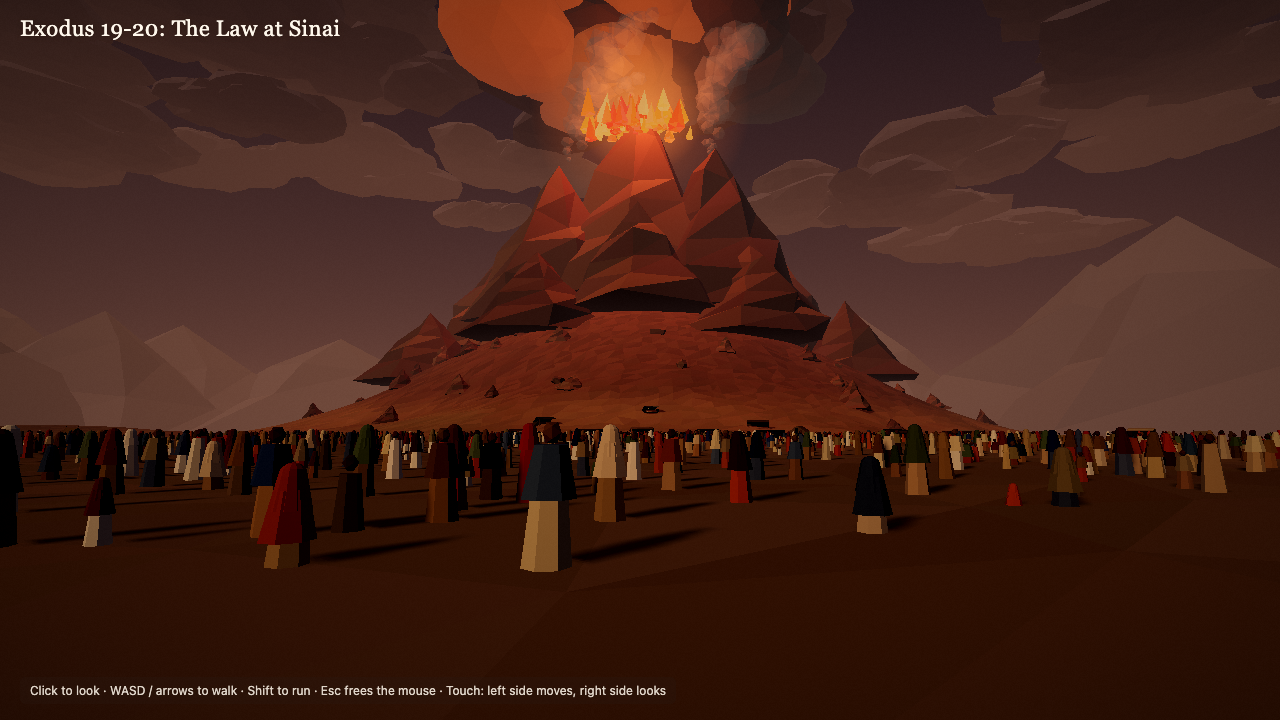
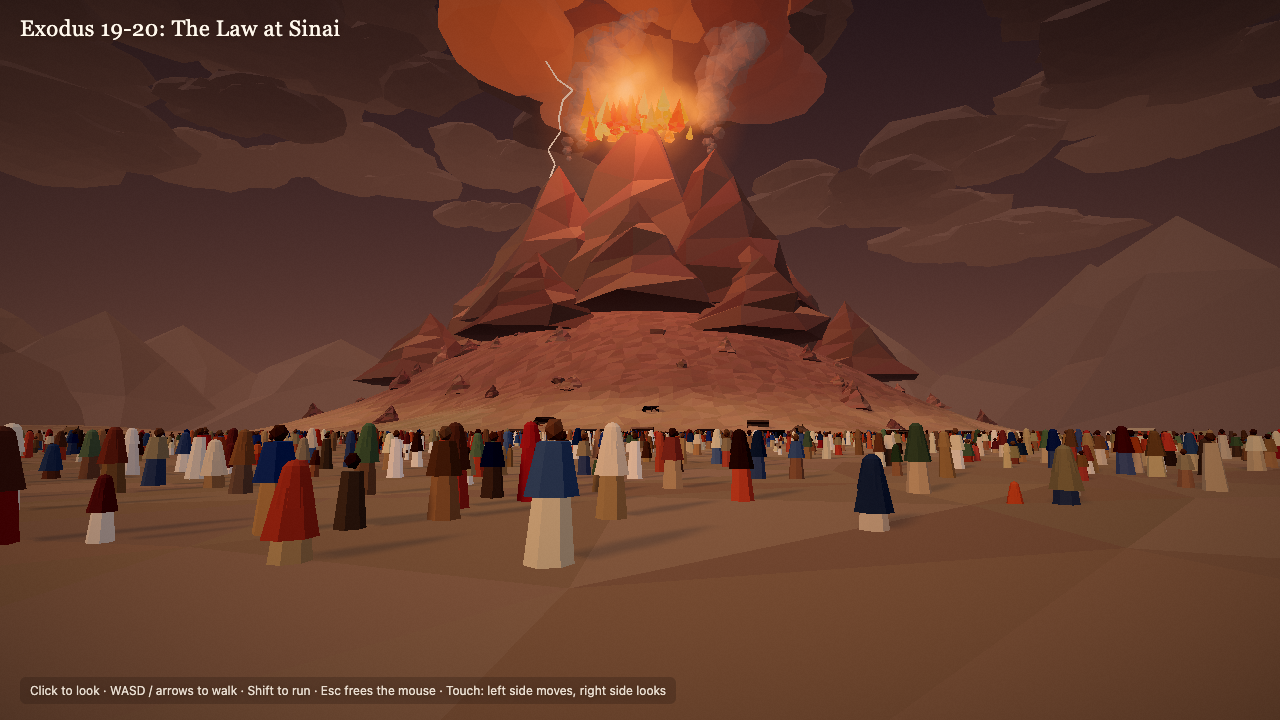
feat: polish lowpoly scenes ot-19 to ot-24

diff --git a/styles/lowpoly/scenes/ot-22.js b/styles/lowpoly/scenes/ot-22.js
@@ -2,7 +2,7 @@
 // that covers the tent of meeting begins to glow as fire, and the tribes watch from their tents.
 import * as THREE from 'three';
 import { rng } from '../engine/util.js';
-import { ISRAEL, desertTerrain, layoutTents, tentZones, tent, campfire, flock, banner, person } from './lib/ot-19-camp.js';
+import { ISRAEL, desertTerrain, layoutTents, tentZones, tent, campfire, flock, banner, person, puffTexture } from './lib/ot-19-camp.js';
 
 const COURT = { x: 0, z: -25, w: 22.5, d: 45 };
 const TENT = { x: 0, z: -36, w: 4.6, d: 13.5, h: 4.6 };
@@ -82,7 +82,7 @@ function tabernacle(ctx) {
   const fireLight = new THREE.PointLight('#ff9a48', 40, 22, 1.5);
   fireLight.position.set(ax, ay + 3, az);
   ctx.scene.add(fireLight);
-  ctx.effects.smoke({ position: [ax, ay + 2, az], count: 12, height: 18, size: 0.6, color: '#a09890', seed: 8 });
+  ctx.effects.smoke({ position: [ax, ay + 2, az], count: 8, height: 9, size: 0.3, color: '#a09890', seed: 8 });
 
   const [lx, lz] = LAVER;
   const ly = ctx.heightAt(lx, lz);
@@ -91,41 +91,50 @@ function tabernacle(ctx) {
   ctx.colliders.add({ x: lx, z: lz, w: 1.4, d: 1.4, bottom: ly, top: ly + 1.3 });
 }
 
-// The cloud over the tent, glowing with fire from within as night falls.
+// The cloud over the tent: a soft, tall column glowing with fire from within as night falls.
 function pillar(ctx) {
   const r = rng(40);
   const { x, z, h } = TENT;
-  const base = ctx.heightAt(x, z) + h + 1;
-  const mat = (k) => new THREE.MeshLambertMaterial({ color: '#8a7a74', emissive: new THREE.Color('#ff7a2a').lerp(new THREE.Color('#c89070'), k), emissiveIntensity: 0.75 - k * 0.45, flatShading: true });
-  const mats = [0, 0.3, 0.6, 1].map(mat);
-  const puffs = [];
-  for (let i = 0; i < 130; i++) {
-    const t = (i / 130) ** 1.3;
-    const y = base + t * 150 + r.range(-3, 3);
-    const rad = 6 + t * 16 + r.range(-1, 2);
-    const a = r() * Math.PI * 2;
-    const m = new THREE.Mesh(new THREE.IcosahedronGeometry(1, 0), mats[Math.min(3, Math.floor(t * 4 + r() * 0.8))]);
-    const s = rad * r.range(0.45, 0.8);
-    m.scale.set(s, s * 0.8, s);
-    m.position.set(x + Math.cos(a) * rad * 0.55, y, z + Math.sin(a) * rad * 0.55);
-    m.userData = { a, rad, y, ph: r() * 6 };
-    ctx.scene.add(m);
-    puffs.push(m);
+  const ground = ctx.heightAt(x, z);
+  const base = ground + h + 0.5;
+  const tex = puffTexture();
+  const smoke = [0, 1, 2, 3].map((k) => new THREE.SpriteMaterial({ map: tex, color: new THREE.Color('#ffb070').lerp(new THREE.Color('#c8a0a0'), k / 3), opacity: 0.55 - k * 0.07, transparent: true, depthWrite: false, fog: false }));
+  const fire = new THREE.SpriteMaterial({ map: tex, color: '#ffb860', opacity: 0.4, transparent: true, depthWrite: false, blending: THREE.AdditiveBlending, fog: false });
+  const sprites = [];
+  const add = (mat, t, width, size) => {
+    const a = r() * Math.PI * 2, d = Math.sqrt(r()) * width;
+    const s = new THREE.Sprite(mat);
+    const y = base + t * 150;
+    s.scale.set(size, size * r.range(1.1, 1.6), 1);
+    s.position.set(x + Math.cos(a) * d, y, z + Math.sin(a) * d);
+    s.userData = { x: s.position.x, z: s.position.z, y, ph: r() * 6 };
+    ctx.scene.add(s);
+    sprites.push(s);
+  };
+  for (let i = 0; i < 110; i++) {
+    const t = (i / 110) ** 1.25;
+    const width = 3 + t * 9;
+    add(smoke[Math.min(3, Math.floor(t * 4))], t, width, r.range(9, 14) + t * 14);
+  }
+  for (let i = 0; i < 40; i++) {
+    const t = (i / 40) ** 1.4 * 0.7;
+    add(fire, t, 1.5 + t * 4, r.range(6, 10) + t * 8);
   }
   ctx.onFrame((t) => {
-    for (const m of puffs) {
-      const { a, rad, y, ph } = m.userData;
-      m.rotation.y = t * 0.05 + ph;
-      m.position.y = y + Math.sin(t * 0.3 + ph) * 1.2;
-      m.position.x = x + Math.cos(a + t * 0.04) * rad * 0.55;
+    for (const s of sprites) {
+      const { x: sx, z: sz, y, ph } = s.userData;
+      s.position.y = y + Math.sin(t * 0.25 + ph) * 1.5;
+      s.position.x = sx + Math.sin(t * 0.08 + ph) * 1.2;
+      s.position.z = sz + Math.cos(t * 0.07 + ph) * 1.2;
     }
-    for (const [i, mm] of mats.entries()) mm.emissiveIntensity = (0.75 - i * 0.15) * (0.9 + 0.1 * Math.sin(t * 2.3 + i));
+    fire.opacity = 0.4 * (0.9 + 0.1 * Math.sin(t * 1.7));
   });
-  ctx.effects.halo({ position: [x, base + 10, z], size: 34, color: '#ffae60', opacity: 0.3 });
+  ctx.effects.beam({ position: [x, base - 1, z], height: 160, radiusBottom: 4, radiusTop: 10, color: '#ffc080', opacity: 0.55 });
+  ctx.effects.halo({ position: [x, base + 6, z], size: 30, color: '#ffae60', opacity: 0.35 });
   const light = new THREE.PointLight('#ffb070', 260, 120, 1.3);
   light.position.set(x, base + 12, z + 6);
   ctx.scene.add(light);
-  ctx.effects.halo({ position: [x, ctx.heightAt(x, z) + 2.4, z + TENT.d / 2 + 0.4], size: 7, color: '#fff0c8', opacity: 0.5 });
+  ctx.effects.halo({ position: [x, ground + 2.4, z + TENT.d / 2 + 0.4], size: 7, color: '#fff0c8', opacity: 0.5 });
 }
 
 export default {
@@ -144,7 +153,7 @@ export default {
   grade: { saturation: 1.1, contrast: 1.08, vignette: 0.48, shadowTint: '#201a48', highlightTint: '#ffd8a8' },
   shadow: { center: [0, -25], radius: 60 },
 
-  player: { start: [0, 26], yaw: 0, pitch: 0.2, eye: 1.65, speed: 4.5 },
+  player: { start: [0, 16], yaw: 0, pitch: 0.24, eye: 1.65, speed: 4.5 },
 
   terrain: desertTerrain({
     seed: 22,

diff --git a/styles/lowpoly/scenes/lib/ot-19-camp.js b/styles/lowpoly/scenes/lib/ot-19-camp.js
@@ -205,6 +205,47 @@ export function person(ctx, p) {
   arms.forEach(([raise, spread], i) => batch.add(armGeo(i ? 1 : -1, raise, spread), opts(mantle ?? robe)));
 }
 
+const UP = new THREE.Vector3(0, 1, 0);
+function limb(a, b, r) {
+  const dir = b.clone().sub(a);
+  const g = new THREE.CylinderGeometry(r * 0.85, r, dir.length(), 5).translate(0, dir.length() / 2, 0);
+  g.applyQuaternion(new THREE.Quaternion().setFromUnitVectors(UP, dir.normalize()));
+  return g.translate(a.x, a.y, a.z);
+}
+
+// A person lying on the ground, feet at (x, z) and head toward yaw. prop raises the torso on one elbow
+// (0 is flat on the back), and reach lifts the free hand toward whatever the feet point at.
+export function lying(ctx, p) {
+  const { x, z, yaw = 0, scale = 1, robe = '#8b6b4a', mantle, skin = '#9b6a46', hood = false, prop = 0, reach = false } = p;
+  const len = 1.55 * scale;
+  const hx = x + Math.sin(yaw) * len, hz = z + Math.cos(yaw) * len;
+  const feetY = ctx.heightAt(x, z), headY = ctx.heightAt(hx, hz);
+  const at = { position: [x, feetY - 0.02, z], rotation: [-Math.atan2(headY - feetY, len), yaw, 0], scale: [scale, scale, scale], jitter: 0.04 };
+  const add = (geo, color) => ctx.solid.add(geo, { ...at, color });
+  const cloak = mantle ?? robe;
+
+  add(new THREE.CylinderGeometry(0.2, 0.27, 0.82, 7).rotateX(Math.PI / 2).scale(1, 0.62, 1).translate(0, 0.17, 0.41), robe);
+  for (const s of [-1, 1]) add(new THREE.BoxGeometry(0.09, 0.12, 0.16).translate(s * 0.09, 0.07, -0.04), skin);
+
+  const torso = new THREE.Matrix4().makeTranslation(0, 0.17, 0.8).multiply(new THREE.Matrix4().makeRotationX(-prop));
+  const inTorso = (g) => g.applyMatrix4(torso);
+  const pt = (px, py, pz) => new THREE.Vector3(px, py, pz).applyMatrix4(torso);
+  add(inTorso(new THREE.CylinderGeometry(0.22, 0.2, 0.6, 7).rotateX(Math.PI / 2).scale(1, 0.72, 1).translate(0, 0, 0.3)), robe);
+  if (mantle) add(inTorso(new THREE.CylinderGeometry(0.25, 0.24, 0.42, 7).rotateX(Math.PI / 2).scale(1, 0.78, 1).translate(0, 0.01, 0.36)), mantle);
+  add(inTorso(new THREE.IcosahedronGeometry(0.14, 0).scale(1, 0.95, 1.12).translate(0, 0.03, 0.76)), skin);
+  if (hood) add(inTorso(new THREE.SphereGeometry(0.17, 7, 4, 0, Math.PI * 2, 0, Math.PI / 2).rotateX(-Math.PI / 2 - 0.5).translate(0, 0.0, 0.78)), cloak);
+
+  [-1, 1].forEach((s, i) => {
+    const shoulder = pt(s * 0.25, 0.02, 0.54);
+    let hand;
+    if (reach && i === 1) hand = shoulder.clone().add(new THREE.Vector3(s * 0.12, 0.42, -0.42));
+    else if (prop > 0.2) hand = new THREE.Vector3(s * 0.34, 0.05, shoulder.z - 0.12);
+    else hand = new THREE.Vector3(s * (0.3 + (i ? 0.08 : 0)), 0.06, shoulder.z - 0.58);
+    add(limb(shoulder, hand, 0.065), cloak);
+    add(new THREE.IcosahedronGeometry(0.06, 0).translate(hand.x, hand.y, hand.z), skin);
+  });
+}
+
 // Picks robe colors for a hand-placed person from the shared palette.
 export function dress(rand, palette = ISRAEL) {
   const hasMantle = rand() < palette.mantleChance;
@@ -229,7 +270,7 @@ export function tablets(ctx, x, y, z, yaw, { scale = 1, color = '#9a958a' } = {}
 
 // Low drifting bank of mist or dust: flat additive sprites near the ground.
 let puffTex;
-function puffTexture() {
+export function puffTexture() {
   if (puffTex) return puffTex;
   const c = document.createElement('canvas');
   c.width = c.height = 128;

diff --git a/styles/lowpoly/scenes/ot-19.js b/styles/lowpoly/scenes/ot-19.js
@@ -2,7 +2,7 @@
 // small white flakes over the ground, and Israel goes out among the tents to gather it.
 import * as THREE from 'three';
 import { rng } from '../engine/util.js';
-import { ISRAEL, desertTerrain, scatterPoints, layoutTents, tentZones, tent, campfire, flock, basket, jar, haze } from './lib/ot-19-camp.js';
+import { ISRAEL, desertTerrain, scatterPoints, layoutTents, tentZones, tent, campfire, flock, basket, jar, haze, person, dress } from './lib/ot-19-camp.js';
 
 const CAMP = [0, -70];
 const FIELD = [0, -8];
@@ -13,7 +13,7 @@ const tents = [
 ];
 const zones = tentZones(tents);
 
-const gatherers = scatterPoints({ center: FIELD, ring: [3, 60], count: 460, spacing: 2.2, seed: 9, avoid: [{ x: 0, z: 26, r: 6 }, ...zones] });
+const gatherers = scatterPoints({ center: FIELD, ring: [3, 60], count: 460, spacing: 2.2, seed: 9, avoid: [{ x: 0, z: 26, r: 6 }, { x: 0, z: 17, r: 7 }, ...zones] });
 const faces = [[-40, -20], [40, -10], [0, -60], [0, 60], [-60, 30], [60, 40]];
 const groups = faces.map((face, k) => ({
   count: 999,
@@ -29,10 +29,10 @@ export default {
   title: 'Exodus 16:13-21: Manna in the wilderness',
   seed: 19,
   fov: 60,
-  exposure: 1.05,
+  exposure: 1.14,
 
   sun: { direction: [0.78, 0.17, -0.42], color: '#ffd2a0', intensity: 2.6 },
-  light: { sky: '#b4c4e4', ground: '#a07c5c', hemi: 1.15 },
+  light: { sky: '#b4c4e4', ground: '#c09a74', hemi: 1.35 },
   sky: { top: '#6f8fc4', horizon: '#f6d2b0', ground: '#e0c2a0', sunColor: '#fff0d0', glow: 1.1 },
   fog: { color: '#ead4c0', near: 50, far: 520 },
   clouds: { count: 34, shadow: '#a596a8', lit: '#ffe0c0', rim: '#fff6e4', distance: [260, 900], altitude: [110, 240], hole: 0.3 },
@@ -67,6 +67,16 @@ export default {
       if (i % 3 === 0) basket(ctx, x + r.range(-0.7, 0.7), z + r.range(0.4, 0.8), { fill: '#f2eee2' });
       else if (i % 7 === 1) jar(ctx, x + 0.5, z + 0.4, { s: 0.8 });
     });
+
+    // A family close by, kneeling to gather the flakes into baskets.
+    for (const [x, z, yaw, kind] of [[-2.6, 19.5, 0.5, 'kneel'], [-1.2, 18.2, -0.3, 'kneel'], [1.8, 20.5, -0.9, 'kneel'], [3.4, 17.2, 2.6, 'stand'], [-4.6, 15.5, 0.9, 'kneel'], [0.6, 14.6, 2.9, 'child'], [4.4, 22.4, -1.6, 'kneel']]) {
+      const d = dress(r);
+      const fx = x + Math.sin(yaw) * 0.6, fz = z + Math.cos(yaw) * 0.6;
+      if (kind === 'stand') person(ctx, { x, z, yaw, ...d, arms: [[1.1, 0.15], [1.1, 0.15]] });
+      else person(ctx, { x, z, yaw, ...d, kneel: true, scale: kind === 'child' ? 0.7 : 1, arms: [[0.75, 0.12], [0.6, 0.18]] });
+      basket(ctx, fx + Math.cos(yaw) * 0.35, fz - Math.sin(yaw) * 0.35, { fill: '#f2eee2', s: kind === 'child' ? 0.7 : 1 });
+    }
+    basket(ctx, 3.4 + Math.sin(2.6) * 0.45, 17.2 + Math.cos(2.6) * 0.45, { fill: '#f2eee2' });
 
     for (const [x, z] of [[-30, -50], [26, -64], [-62, -96], [48, -110], [6, -130], [-90, -40], [80, -40]]) campfire(ctx, x, z, { smoke: 10 });
     flock(ctx, [-110, -20], 26, 12, 5);

diff --git a/styles/lowpoly/scenes/ot-21.js b/styles/lowpoly/scenes/ot-21.js
@@ -9,7 +9,7 @@ import { sinaiFlat, sinaiPeaks, sinaiStorm } from './lib/ot-19-sinai.js';
 
 const MOUNT = [0, -300];
 const CALF = [0, -60];
-const MOSES = [1.5, -104];
+const MOSES = [1.5, -92];
 
 const tents = layoutTents({ center: [0, 40], ring: [10, 220], count: 230, seed: 21, face: CALF, avoid: [{ x: CALF[0], z: CALF[1], r: 34 }, { rect: [0, -100, 60, 50] }] });
 const zones = tentZones(tents);
@@ -87,7 +87,7 @@ export default {
   exposure: 1.05,
 
   sun: { direction: [0.85, 0.3, -0.25], color: '#ffc58a', intensity: 2.8 },
-  light: { sky: '#9aa4c8', ground: '#6a4c38', hemi: 1.0 },
+  light: { sky: '#9aa4c8', ground: '#8a6a50', hemi: 1.2 },
   sky: { top: '#4f6290', horizon: '#f0b888', ground: '#c89a74', sunColor: '#ffd9a0', glow: 1.0 },
   fog: { color: '#d4a888', near: 80, far: 640 },
   clouds: { count: 40, shadow: '#5a4a58', lit: '#ffc890', rim: '#fff0d0', distance: [400, 1000], altitude: [200, 320], hole: 0.2 },
@@ -96,7 +96,7 @@ export default {
   grade: { saturation: 1.1, contrast: 1.06, vignette: 0.4, shadowTint: '#3a2a5a', highlightTint: '#ffe0b0' },
   shadow: { center: [0, -70], radius: 70 },
 
-  player: { start: [-1.5, -112], yaw: Math.PI, pitch: -0.13, eye: 1.65, speed: 4.5 },
+  player: { start: [-1.2, -98.5], yaw: Math.PI, pitch: -0.1, eye: 1.65, speed: 4.5 },
 
   terrain: desertTerrain({
     seed: 21,
@@ -109,7 +109,7 @@ export default {
   crowd: {
     palette: ISRAEL,
     groups: [
-      { count: 700, center: CALF, ring: [18, 58], spacing: 1.1, face: CALF, children: 0.2, seed: 31, avoid: [...zones, { rect: [0, -108, 30, 24] }] },
+      { count: 700, center: CALF, ring: [18, 58], spacing: 1.1, face: CALF, children: 0.2, seed: 31, avoid: [...zones, { rect: [0, -100, 26, 30] }] },
       { count: 500, center: [0, 40], ring: [0, 160], spacing: 1.6, face: CALF, children: 0.25, kneel: 0.1, seed: 32, avoid: [...zones, { x: CALF[0], z: CALF[1], r: 58 }, { rect: [0, -110, 120, 60] }] },
     ],
   },
@@ -126,7 +126,7 @@ export default {
     // Moses, tables raised, about to cast them down. Joshua a step behind.
     const my = ctx.heightAt(MOSES[0], MOSES[1]);
     person(ctx, { x: MOSES[0], z: MOSES[1], yaw: 0, robe: '#c8b89a', mantle: '#7a3a2a', skin: '#9b6a46', hood: true, scale: 1.05, arms: [[2.75, 0.32], [2.75, 0.32]] });
-    tablets(ctx, MOSES[0], my + 2.25, MOSES[1] + 0.12, 0, { scale: 1.15 });
+    tablets(ctx, MOSES[0], my + 2.3, MOSES[1] + 0.12, 0, { scale: 1.3, color: '#cfc8b8' });
     person(ctx, { x: MOSES[0] - 2.2, z: MOSES[1] - 1.6, yaw: 0.2, robe: '#8b6b4a', mantle: '#3f4d5e', skin: '#8a5a3c', hood: true, arms: [[0.5, 0.15], [0.2, 0.12]] });
     ctx.solid.add(new THREE.CylinderGeometry(0.04, 0.04, 2.2, 4), { position: [MOSES[0] - 1.85, my + 1, MOSES[1] - 1.3], rotation: [0.1, 0, 0.05], color: '#5a4332' });
 

diff --git a/styles/lowpoly/scenes/ot-23.js b/styles/lowpoly/scenes/ot-23.js
@@ -2,12 +2,12 @@
 // and the bitten who look upon it live.
 import * as THREE from 'three';
 import { rng } from '../engine/util.js';
-import { ISRAEL, desertTerrain, scatterPoints, layoutTents, tentZones, tent, person, dress } from './lib/ot-19-camp.js';
+import { ISRAEL, desertTerrain, scatterPoints, layoutTents, tentZones, tent, person, lying, dress } from './lib/ot-19-camp.js';
 
 const POLE = [0, -12];
 const tents = layoutTents({ center: POLE, ring: [62, 230], count: 200, seed: 23, face: POLE, avoid: [{ rect: [0, 40, 40, 60] }] });
 const zones = tentZones(tents);
-const fallen = scatterPoints({ center: [0, -4], ring: [3, 24], count: 44, spacing: 2.4, seed: 7, avoid: [{ x: 0, z: 12, r: 3.5 }, { x: POLE[0], z: POLE[1], r: 4 }] });
+const fallen = scatterPoints({ center: [0, -4], ring: [3, 20], count: 40, spacing: 2.2, seed: 7, avoid: [{ x: 0, z: 14, r: 6 }, { x: POLE[0], z: POLE[1], r: 4 }] });
 
 function serpentPole(ctx) {
   const [x, z] = POLE;
@@ -73,7 +73,7 @@ export default {
   grade: { saturation: 1.08, contrast: 1.06, vignette: 0.36, shadowTint: '#4a3a5a', highlightTint: '#fff2d8' },
   shadow: { center: [0, -15], radius: 60 },
 
-  player: { start: [0, 12], yaw: 0, pitch: 0.1, eye: 1.65, speed: 4.5 },
+  player: { start: [0, 14], yaw: 0, pitch: 0, eye: 1.65, speed: 4.5 },
 
   terrain: desertTerrain({
     seed: 23,
@@ -89,7 +89,7 @@ export default {
   crowd: {
     palette: ISRAEL,
     groups: [
-      { count: 900, center: POLE, ring: [7, 64], spacing: 1.15, face: [POLE[0], POLE[1]], children: 0.2, kneel: 0.35, seed: 51, avoid: [...zones, { rect: [0, 6, 6, 18] }, ...fallen.map(([x, z]) => ({ x, z, r: 1.4 }))] },
+      { count: 900, center: POLE, ring: [7, 64], spacing: 1.15, face: [POLE[0], POLE[1]], children: 0.2, kneel: 0.35, seed: 51, avoid: [...zones, { rect: [0, 8, 5, 16] }, ...fallen.map(([x, z]) => ({ x, z, r: 1.4 }))] },
     ],
   },
 
@@ -104,7 +104,8 @@ export default {
       const toPole = Math.atan2(px - x, pz - z);
       const d = dress(r);
       if (i % 3 === 0) person(ctx, { x, z, yaw: toPole, ...d, kneel: true, arms: [[1.9, 0.3], [0.4, 0.2]] });
-      else person(ctx, { x, z, yaw: toPole + Math.PI + (i % 2 ? 1.3 : -1.3) + r.range(-0.3, 0.3), ...d, lie: -Math.PI / 2 + r.range(0.55, 0.8), arms: [[i % 2 ? 2.2 : 0.2, 0.25], [0.15, 0.2]] });
+      else if (i % 3 === 1) lying(ctx, { x, z, yaw: toPole + Math.PI + r.range(-0.4, 0.4), ...d, prop: r.range(0.55, 0.8), reach: i % 2 === 1 });
+      else lying(ctx, { x, z, yaw: r() * Math.PI * 2, ...d, prop: r.range(0, 0.15) });
     });
     // Moses beside the pole, one arm raised toward it.
     person(ctx, { x: px + 1.6, z: pz + 1.2, yaw: 0.4, robe: '#c8b89a', mantle: '#7a3a2a', skin: '#9b6a46', hood: true, scale: 1.05, arms: [[2.6, 0.5], [0.3, 0.15]] });

diff --git a/styles/lowpoly/scenes/ot-24.js b/styles/lowpoly/scenes/ot-24.js
@@ -139,7 +139,7 @@ function procession(ctx) {
       person(ctx, { x: ark.x + sx * 1.3 + ex, z: ark.z + sz * 1.3 + ez, yaw: ark.yaw, robe: '#ece6d6', skin: '#9b6a46', arms: [[0.9, 0.05], [0.9, 0.05]] });
     }
   }
-  ctx.effects.halo({ position: [ark.x, ay + 0.4, ark.z], size: 3, color: '#ffe6a0', opacity: 0.35 });
+  ctx.effects.halo({ position: [ark.x, ay + 0.6, ark.z], size: 6, color: '#ffe6a0', opacity: 0.5 });
   // Joshua and the armed men going before the priests, and the rearward after the ark.
   for (let i = 0; i < 26; i++) {
     const before = i < 16;
@@ -167,7 +167,7 @@ export default {
   grade: { saturation: 1.08, contrast: 1.06, vignette: 0.38, shadowTint: '#3a3a5a', highlightTint: '#ffeed0' },
   shadow: { center: [0, -60], radius: 90 },
 
-  player: { start: [6, 6], yaw: 0.06, pitch: 0.08, eye: 1.65, speed: 4.5 },
+  player: { start: [14, -3], yaw: -0.5, pitch: 0.1, eye: 1.65, speed: 4.5 },
 
   terrain: desertTerrain({
     seed: 24,
@@ -184,7 +184,7 @@ export default {
   crowd: {
     palette: ARMY,
     groups: [
-      { count: 1400, center: CITY, ring: [84, 120], arc: [0.2, Math.PI - 0.2], spacing: 1.05, face: CITY, children: 0, seed: 71, avoid: [{ rect: [6, 10, 10, 20] }] },
+      { count: 1400, center: CITY, ring: [84, 120], arc: [0.2, Math.PI - 0.2], spacing: 1.05, face: CITY, children: 0, seed: 71, avoid: [{ rect: [12, -2, 14, 14] }] },
       { count: 1000, center: CITY, ring: [84, 120], arc: [Math.PI - 0.2, Math.PI * 2 + 0.2], spacing: 1.3, face: CITY, children: 0, seed: 72 },
     ],
   },

diff --git a/styles/lowpoly/scenes/lib/ot-19-sinai.js b/styles/lowpoly/scenes/lib/ot-19-sinai.js
@@ -3,6 +3,7 @@
 import * as THREE from 'three';
 import { mergeVertices } from 'three/addons/utils/BufferGeometryUtils.js';
 import { rng } from '../../engine/util.js';
+import { puffTexture } from './ot-19-camp.js';
 
 export const sinaiFlat = ({ x, z, base = 120, spread = 240 }) => ({ x, z, r: 0, falloff: spread, height: base });
 
@@ -80,6 +81,21 @@ export function sinaiStorm(ctx, summit, { fire = true, quake = true, lightning =
         jitter: 0.05,
       });
     }
+    const blaze = new T.SpriteMaterial({ map: puffTexture(), color: '#ff8a38', opacity: 0.32, transparent: true, depthWrite: false, blending: T.AdditiveBlending, fog: false });
+    const flames = [];
+    for (let i = 0; i < 36; i++) {
+      const a = r() * Math.PI * 2, d = r.range(8, 48);
+      const s = new T.Sprite(blaze);
+      const size = r.range(18, 34);
+      s.scale.set(size, size * 1.4, 1);
+      s.position.set(sx + Math.cos(a) * d, sy - 18 + r.range(0, 30), sz + 14 + Math.sin(a) * d * 0.6);
+      s.userData = { y: s.position.y, ph: r() * 6 };
+      scene.add(s);
+      flames.push(s);
+    }
+    ctx.onFrame((t) => {
+      for (const s of flames) s.position.y = s.userData.y + Math.sin(t * 1.6 + s.userData.ph) * 2.5;
+    });
     effects.halo({ position: [sx, sy, sz], size: 160, color: '#ff8a3a', opacity: 0.55 });
     const glow = new T.PointLight('#ff7a30', 1500, 420, 1.2);
     glow.position.set(sx, sy + 10, sz + 30);

diff --git a/styles/lowpoly/scenes/ot-20.js b/styles/lowpoly/scenes/ot-20.js
@@ -19,7 +19,7 @@ export default {
   exposure: 1.15,
 
   sun: { direction: [-0.55, 0.42, 0.7], color: '#e8c098', intensity: 1.5 },
-  light: { sky: '#6a6478', ground: '#4a3a32', hemi: 1.25 },
+  light: { sky: '#7a7088', ground: '#6a5040', hemi: 1.4 },
   sky: { top: '#24212c', horizon: '#7a5c50', ground: '#4a3c34', sunColor: '#d0a080', glow: 0.4 },
   fog: { color: '#5e4e4a', near: 90, far: 900 },
   clouds: { count: 90, shadow: '#221e24', lit: '#6a5450', rim: '#a07a64', distance: [480, 1100], altitude: [300, 420], hole: 0 },
